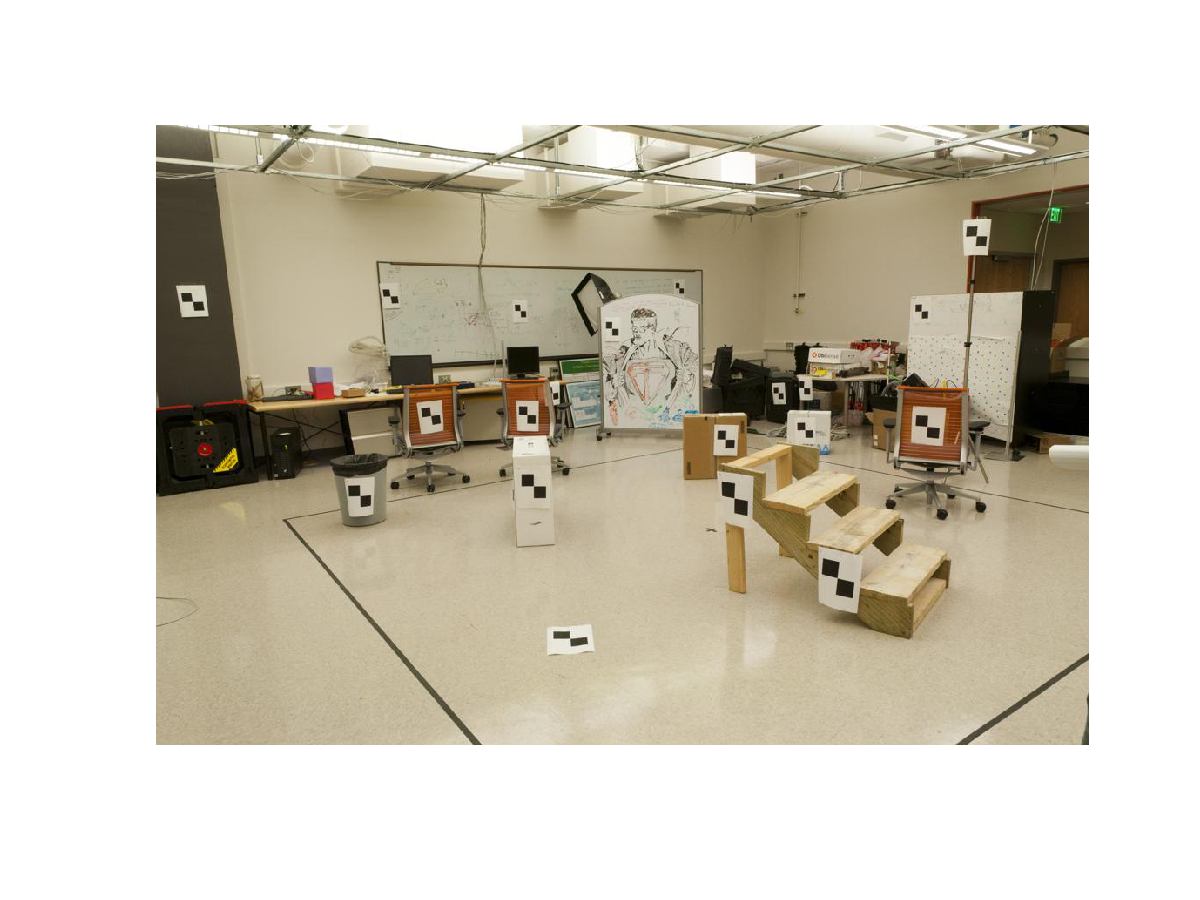
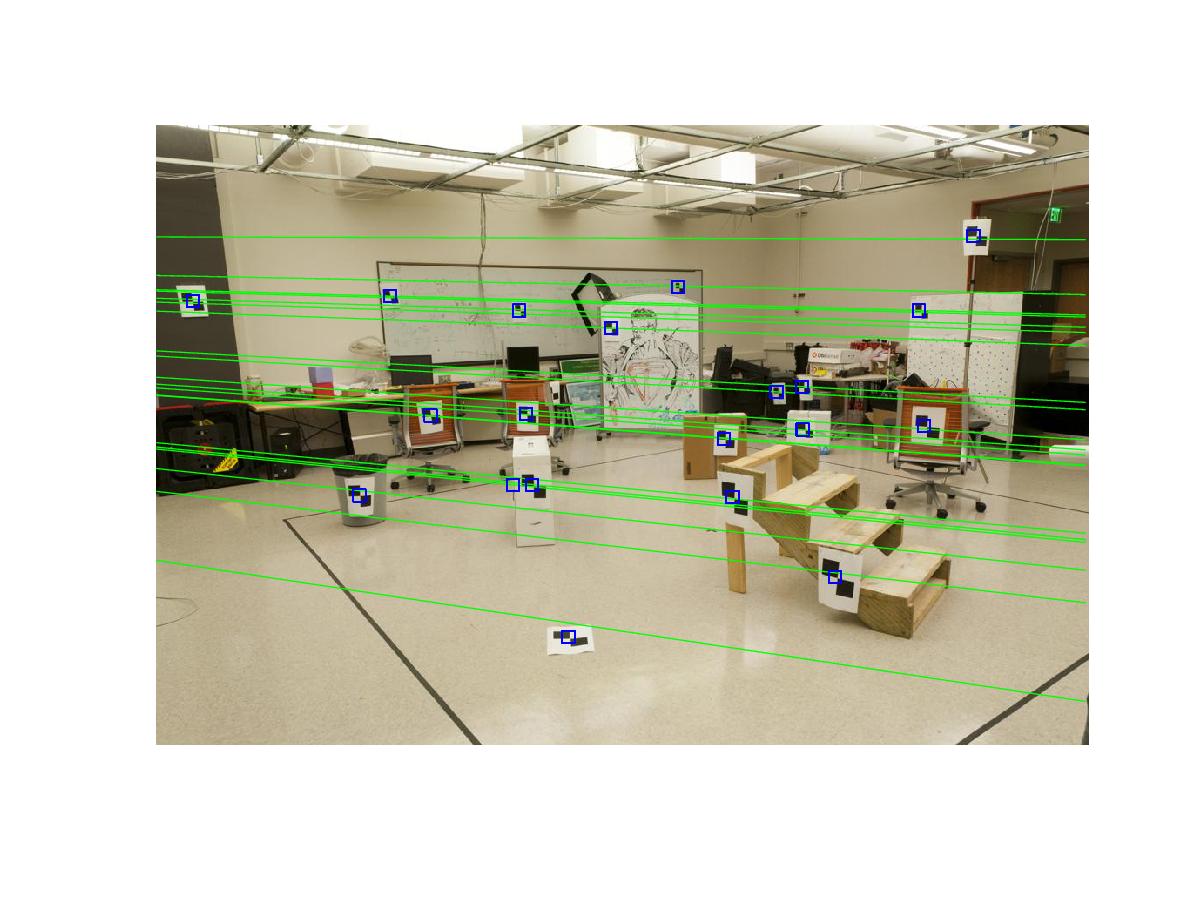
1. improved fundamental matrix generator\n2. fixed the bug in epipolar line draw

diff --git a/georgiatech_cs4495/ps3_octave/epipolar_line_draw.m b/georgiatech_cs4495/ps3_octave/epipolar_line_draw.m
@@ -3,27 +3,32 @@ function epipolar_line_draw(imgb, F, pta, ptb, save)
     % convert the points to homogenous coordinate
     pta = [pta, ones(size(pta, 1), 1)];
     ptb = [ptb, ones(size(ptb, 1), 1)];
-
-    %% draw the epipolar line in the img
-    lb = F * pta';
     
     pbul = [1; 1; 1];   % the point at up left
-    pbbl = [size(imgb, 1); 1; 1];   % the point at bottom left
-    pbur = [1; size(imgb, 2); 1];    % the point at up right
-    pbbr = [size(imgb, 1); size(imgb, 2); 1]; % the point at bottom right
+    pbbl = [1; size(imgb, 1); 1];   % the point at bottom left
+    pbur = [size(imgb, 2); 1; 1];    % the point at up right
+    pbbr = [size(imgb, 2); size(imgb, 1); 1]; % the point at bottom right
+    ll = cross(pbul, pbbl); % the left boundary line
+    lr = cross(pbur, pbbr); % the right boundary line  
     x = 1 : size(imgb, 2);
     
     figure;
     imshow(imgb);
-    for i = 1 : size(lb, 2)
+    for i = 1 : size(pta, 1)
+        %% the epipolar line in image b
+        lb = F * pta(i, :)';
         %% get the left and right boundaries of the image b 
-        ll = cross(pbul, pbbl); % the left boundary line
-        pbl = cross(lb(:, i), ll); % the intersection of epipolar line and left boundary line
-             
-        lr = cross(pbur, pbbr); % the right boundary line        
-        pbr = cross(lb(:, i), lr); % the intersection of epipolar line and right boundary line
+        pbl = cross(lb, ll); % the intersection of epipolar line and left boundary line
+        pbr = cross(lb, lr); % the intersection of epipolar line and right boundary line
         
+        %% convert to inhomogeneous
+        pbl = [pbl(1) / pbl(3); pbl(2) / pbl(3)];
+        pbr = [pbr(1) / pbr(3); pbr(2) / pbr(3)];
+        
+        %% plot
         y = pbr(2) + (x - pbr(1)) * (pbl(2) - pbr(2)) / (pbl(1) - pbr(1));
+        hold on;
+        plot(ptb(:, 1), ptb(:, 2), 's');
         hold on;
         plot(x, y, 'color', 'green');
     end

diff --git a/georgiatech_cs4495/ps3_octave/fundamental.m b/georgiatech_cs4495/ps3_octave/fundamental.m
@@ -1,5 +1,6 @@
-function F = fundamental(a, b)
-    %% computing the fundamental matrix by least square
+function [F, d] = fundamental(a, b)
+    %% computing the fundamental matrix by least square, F maps the epipolar line 
+    % in image b associated with the points in image b
     if(size(a, 1) ~= size(b, 1))
         printf('number of points mismatch\n');
         return;
@@ -13,18 +14,34 @@ function F = fundamental(a, b)
     ah = [a ones(size(a, 1), 1)];
     bh = [b ones(size(b, 1), 1)];
     
-    A = zeros(size(a, 1), 8);
-    c = -ones(size(a, 1), 1);
-    
-    for i = 1 : size(a, 1)
-        A(i, :) = [b(i, 1) * ah(i, :) b(i, 2) * ah(i, :) a(i, :)];
+    K = 8;
+    times = 30;
+    distance = Inf;
+    A = zeros(K, 8);
+    c = -ones(K, 1);
+    d = zeros(times, 1);
+
+    for j = 1 : times
+        r = randperm(size(ah, 1));
+        aah = ah(r(1 : K), :);
+        aa = a(r(1 : K), :);
+        bb = b(r(1 : K), :);
+        for i = 1 : K
+            A(i, :) = [bb(i, 1) * aah(i, :) bb(i, 2) * aah(i, :) aa(i, :)];
+        end
+        
+        f = A \ c;
+        f = [f; 1];
+        f = reshape(f, 3, 3)';
+        
+        [U D V] = svd(f);
+        D(3, 3) = 0;
+        f = U * D * V';
+        
+        d(j) = sumsq((bh * f * ah')(:));
+        if(d(j) < distance)
+            distance = d;
+            F = f;
+        end
     end
-    
-    F = A \ c;
-    F = [F; 1];
-    F = reshape(F, 3, 3)';
-    
-    [U D V] = svd(F);
-    D(3, 3) = 0;
-    F = U * D * V';
 end

diff --git a/georgiatech_cs4495/ps3_octave/ps3.m b/georgiatech_cs4495/ps3_octave/ps3.m
@@ -61,7 +61,7 @@ disp(C);
 pta = load('input/pts2d-pic_a.txt');
 ptb = load('input/pts2d-pic_b.txt');
 
-F = fundamental(pta, ptb);
+[F, d] = fundamental(pta, ptb);
 printf('\n');
 printf('The fundamental matrix generated from your least squares function is: \n');
 disp(F);
@@ -71,6 +71,7 @@ epipolar_line_draw(imga, F', ptb, pta, 'output/ps3-2-c-1.png');
 
 imgb = imread('input/pic_b.jpg');
 epipolar_line_draw(imgb, F, pta, ptb, 'output/ps3-2-c-2.png');
+
 
 [normpta, Ta] = norm_pt(pta);
 [normptb, Tb] = norm_pt(ptb);
